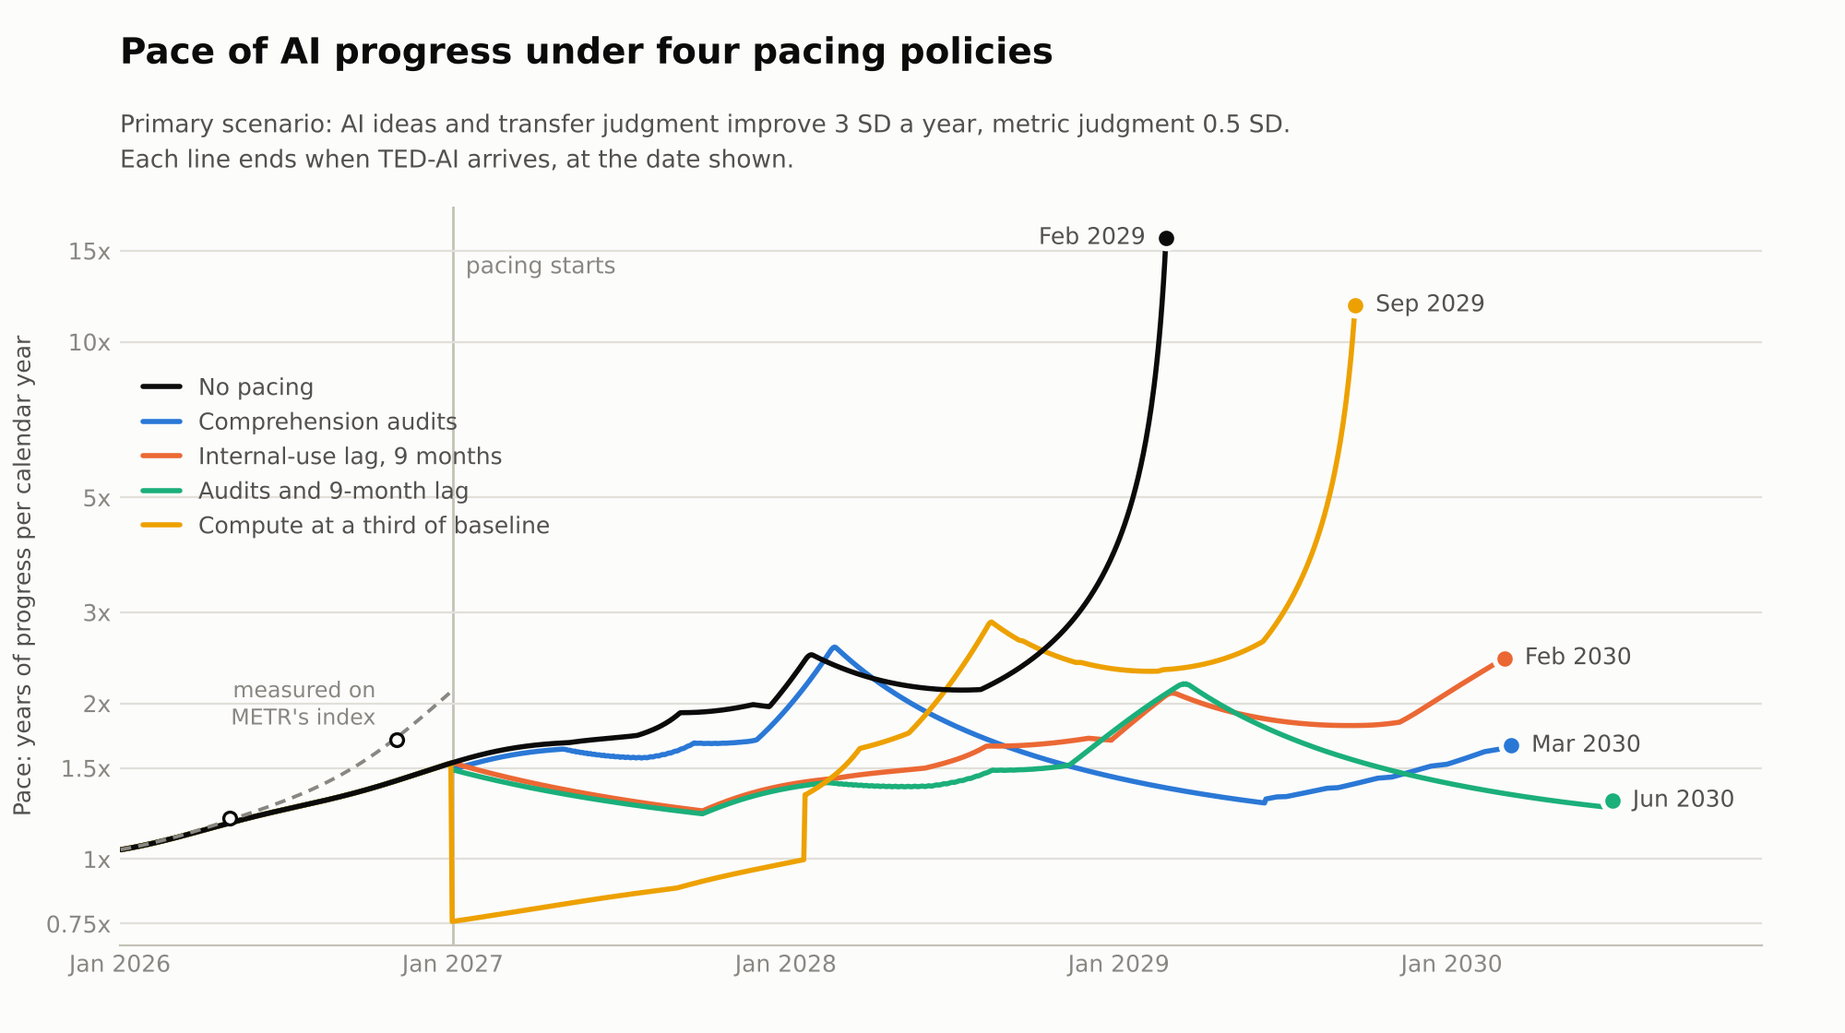
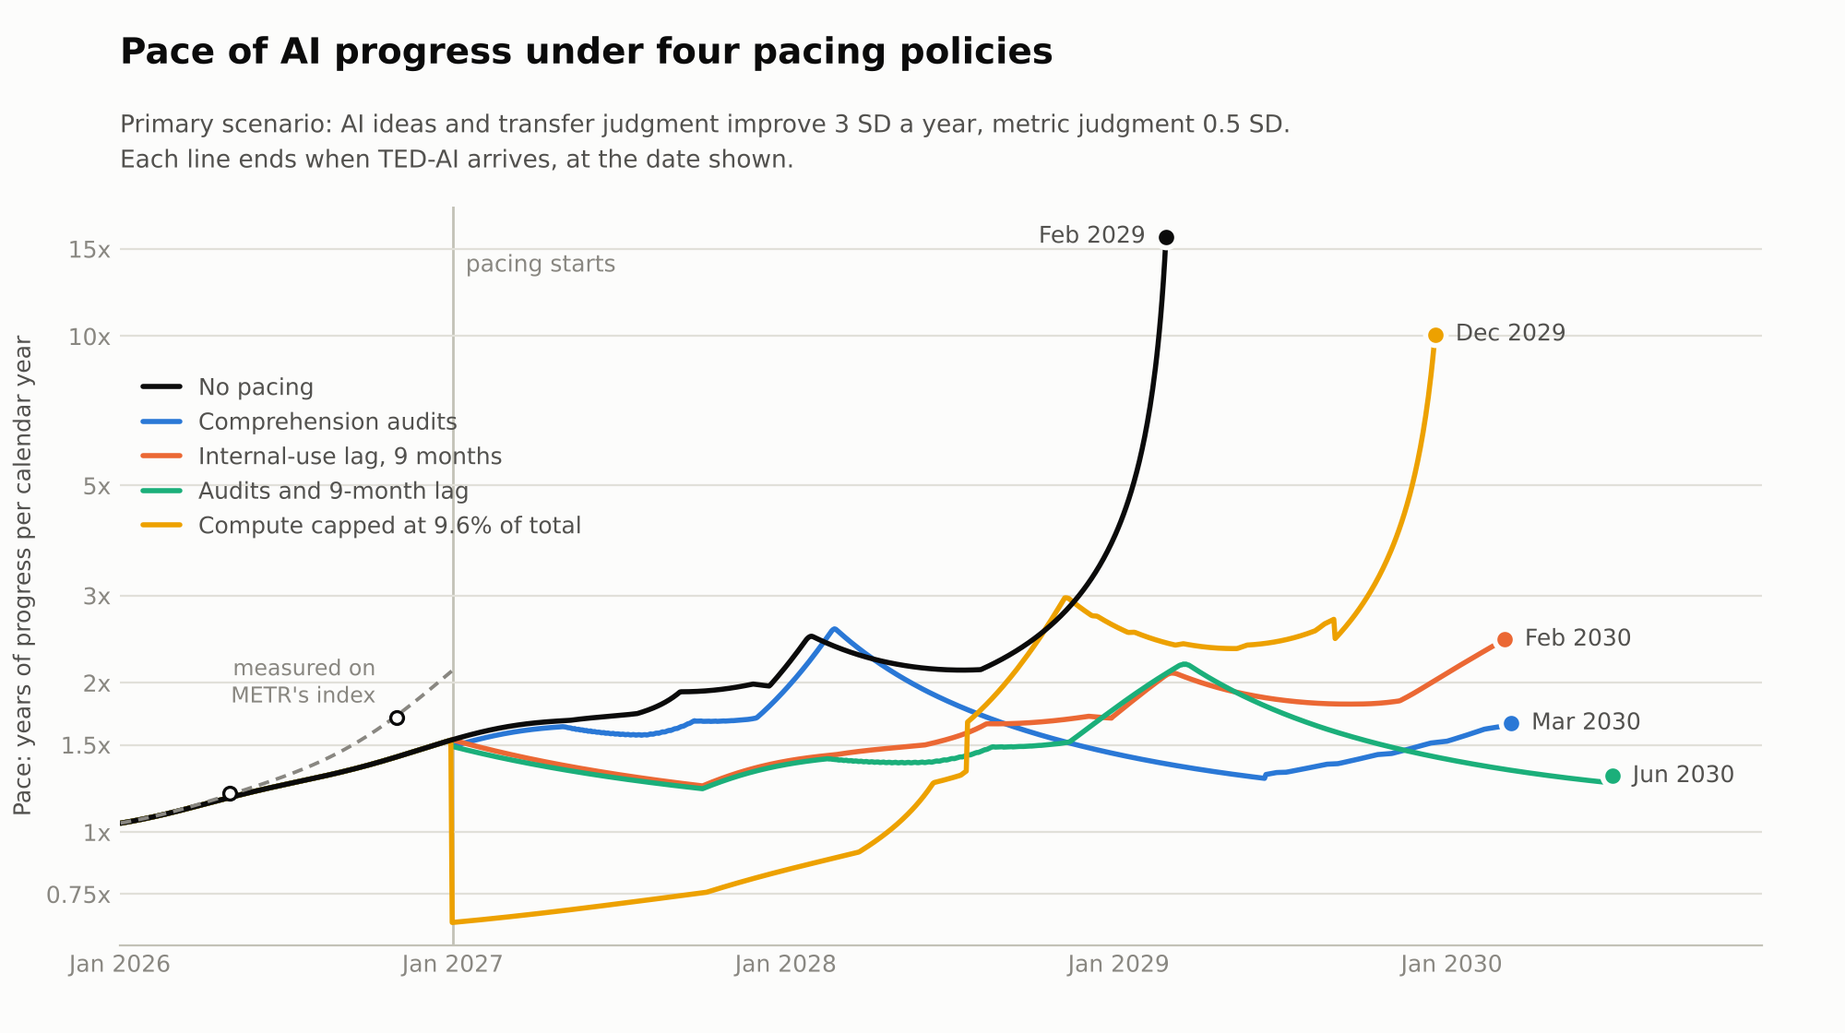
Cap the chain model's research compute at 9.6% of all compute
The compute policy held research to a third of its schedule. It now uses
the second tightest of the three examples in the AI Futures Project's
"How to Pace the US Frontier": capabilities compute at 9.6% of a company's
compute under a 90% floor for external inference, against 48% today, so a
fifth of the schedule. The cap delays TED-AI by 7 to 12 months across the
scenarios, where a third delayed it by 5 to 8. Directed by the PI (spec D22).

Claude-Session: https://claude.ai/code/session_01FEzx7rBG83QTfvYZehGYHo

diff --git a/pacing-takeoff-model/chain/chain_model.py b/pacing-takeoff-model/chain/chain_model.py
@@ -75,6 +75,12 @@ PACE_MAY, PACE_REF = 1.2, 1.7
 # organizations in late August 2026, from its report "How employment is changing at Anthropic"
 # (Figure 2). The pace was measured at the same company.
 T_LABOR, LABOR_REF = 2026.65, 19.0
+# The compute limit. The AI Futures Project's "How to Pace the US Frontier" (August 2026) puts
+# capabilities compute at 48% of a company's compute today and at 9.6% under a floor of 90% for
+# external inference, the second tightest of its three examples. The model holds research
+# compute to the same fraction of its schedule.
+COMPUTE_TODAY, COMPUTE_CAP = 0.48, 0.096
+COMPUTE_LIMIT = "R&D compute capped at 9.6% of all compute"
 # The two milestone levels are the AI Futures Project's, in SD of researcher judgment. In its
 # public code (github.com/AI-Futures-Project, `progress_model/config.py` and `_impl.py`) both
 # are levels of AI research taste.
@@ -157,7 +163,7 @@ POLICIES = (
     Policy("Comprehension audits", audits=True),
     Policy("Internal-use lag, 3 months", lag=0.25),
     Policy("Internal-use lag, 9 months", lag=0.75),
-    Policy("R&D compute at a third of baseline", compute_share=1 / 3),
+    Policy(COMPUTE_LIMIT, compute_share=COMPUTE_CAP / COMPUTE_TODAY),
     Policy("Comprehension audits + 9-month lag", audits=True, lag=0.75),
 )
 
@@ -695,11 +701,11 @@ def pacing_table(p: Params) -> list[str]:
         "Comprehension audits",
         "Internal-use lag, 9 months",
         "Comprehension audits + 9-month lag",
-        "R&D compute at a third of baseline",
+        COMPUTE_LIMIT,
     )
     out = [
         "| AI judgment gained per year | TED-AI, no pacing | Comprehension audits | "
-        "9-month lag | Audits and 9-month lag | Compute at a third of baseline |",
+        "9-month lag | Audits and 9-month lag | Compute capped at 9.6% |",
         "|---|---|---|---|---|---|",
     ]
     for label, rates in CASES:

diff --git a/pacing-takeoff-model/chain/figure.py b/pacing-takeoff-model/chain/figure.py
@@ -16,6 +16,7 @@ import matplotlib.pyplot as plt
 import numpy as np
 from chain_model import (
     CASES,
+    COMPUTE_LIMIT,
     MONTHS,
     PACE_MAY,
     PACE_REF,
@@ -38,7 +39,7 @@ SERIES = (
     ("Comprehension audits", "Comprehension audits", "#2a78d6"),
     ("Internal-use lag, 9 months", "Internal-use lag, 9 months", "#eb6834"),
     ("Comprehension audits + 9-month lag", "Audits and 9-month lag", "#1baf7a"),
-    ("R&D compute at a third of baseline", "Compute at a third of baseline", "#eda100"),
+    (COMPUTE_LIMIT, "Compute capped at 9.6% of total", "#eda100"),
 )
 START, PACING, TICKS = 2026.0, 2027.0, (1.0, 1.5, 2.0, 3.0, 5.0, 10.0, 15.0)
 OUT = Path(__file__).parent / "results" / "pace.png"

diff --git a/spec.md b/spec.md
@@ -124,7 +124,7 @@ Decided 2026-11-12 (PI, in session):
 - **D19 The labs' own usage data enter the pacing model.** Three choices. The rates on fuzzy tasks stay at +1 and +0.5 SD a year: Anthropic's TASTE benchmark has frontier models at chance on judging safety research proposals, which the PI reads as a level below the point of signal and consistent with improvement, so it is recorded as a check on the level and a test to watch and does not change a rate. The share of work that needs a person however short the task starts at 14%, OpenAI's figure for tasks under 15 minutes, and falls as AI judgment on fuzzy tasks rises. The PI holds that there is no fixed ceiling on unsupervised work. The model does not anchor on Google DeepMind's delegation data, because its models were behind the frontier for most of the period they cover; a supervision schedule fitted to its fully delegated pull requests is kept as a sensitivity only. On 2026-11-13 the PI had Anthropic's session success rates added as a third developer's figure for that share, with sensitivity runs on its starting level, its supervision time, how it falls and the audit hours (`pacing-takeoff-model/residue_sensitivity.py`). The same day the PI set the central supervision of that work to 0.5% of its time, from the PI's estimate of half an hour of a person's day for each running session, with a session doing 8 to 12 person-days of work in a day. No developer reports that figure. Three benchmarks scored against human judgment (a rerun of TASTE, RedwoodBench and LMCA) were read from chart images the PI supplied; their pages were not fetched and are not source records. The five reports behind this (Google DeepMind's Gemini 4 Argon safety report, the TASTE page, Ramez Naam's essay, and Anthropic's "When AI builds itself" and "How employment is changing at Anthropic") are not yet source records here.
 - **D20 The pacing model's two task classes are named supervisable and HTS fuzzy.** Decided by the PI on 2026-11-13. The slow class is the hard-to-supervise fuzzy tasks of Bowkis et al., HTS fuzzy for short. The fast class is everything else and is called supervisable, because it is defined by people being able to judge the work. It holds that paper's crisp tasks and the fuzzy tasks people judge reliably. The earlier labels, crisp and fuzzy, made benchmarks scored against human judgment look like evidence on the wrong class. Keys, parameter names and result file names in the model's code use the same two names. They kept the earlier labels for one day and were renamed on the PI's instruction before the next rerun; the one saved file that held an old key, a results meta file, was migrated.
 - **D21 Supervisable work has a weight of 80% in the pacing model.** Decided by the PI on 2026-11-13. It was 65%, the importance-based anchor. No source measures the weight. The three anchors give 60% to 84% and separate well-defined work from the rest, which is wider than the HTS fuzzy class, so they are a floor. The PI moved the central value after three arguments that point above them: Bowkis et al. say fuzzy tasks are more prevalent in alignment research than in capabilities research, benchmarks scored against human judgment rise with general capability, and Dwarkesh Patel's essay of 2026-11-13 argues that AI research has verifiable proxies for its main kinds of work. The model is also run at 50%, 65% and 90%. Patel's essay is not yet a source record here.
-- **D22 A standalone chain model sits beside the pacing models.** Directed by the PI on 2026-11-15. It lives in `pacing-takeoff-model/chain/`, a self-contained folder that can be shared on its own. It replaces the weight of supervisable work (D21) and the substitution between the classes with a mechanism: experiments at scale limited by compute, small experiments behind each one, and two links, transfer and validity, between a small-scale result and real value. People supply both links for the experiments they have time to judge and the AI supplies its own for the rest. The values of the links, the limit on what people can vouch for and the share of audit time that counts as judging are judgments with no measurement behind them. PI decisions: validity of work left to the AI is 0.05 against people's 0.8, lowered from the first draft's 0.3 (2026-11-15). The AI's transfer and metric judgment improve with progress, as its ideas do; a reading in which they improve with calendar time was built and removed, and no limit is put on how fast they improve (2026-11-16). There is no ceiling on ideas (2026-11-15). A compute limit holds a lab to a share of baseline, a third in the tables, and covers experiments at scale, small experiments, AI labor and training (2026-11-16). How fast research gets harder is an input, stated per year of software progress, and the milestone levels are computed from the AI Futures Project's percentile and gap parameters (2026-11-16). AI labor is fitted to Anthropic's 19 agent hours per human work-hour in its research organizations in late August 2026, in place of OpenAI's trend, and 22% of researcher time goes to managing agents, from Anthropic's share of model researchers' agent sessions (2026-11-16). AI labor per researcher has no cap; the PI expects the ratio to keep climbing as AI takes over research. A lab runs the amount of its AI labor that gives the most research, with or without audits. The primary scenario is ideas and transfer judgment at +3 SD a year and metric judgment at +0.5 SD (2026-11-16). Under comprehension audits a lab may deploy a gain only as far as its people can vouch for it, which is up to what its best researcher could have proposed; an audit that takes hours only is kept as a sensitivity (2026-11-16). There is one audit standard; light and strict audits are dropped as not materially different (2026-11-16). The two measured paces, 1.2 times in May 2026 and 1.7 times in November 2026, are fitted as the pace on the lab's metrics and not as real progress, because METR's index is built from benchmarks and the model holds that metrics run ahead of real value (2026-11-16). The model does not replace Model A, Model B or the simple model, and the briefing does not yet report its results.
+- **D22 A standalone chain model sits beside the pacing models.** Directed by the PI on 2026-11-15. It lives in `pacing-takeoff-model/chain/`, a self-contained folder that can be shared on its own. It replaces the weight of supervisable work (D21) and the substitution between the classes with a mechanism: experiments at scale limited by compute, small experiments behind each one, and two links, transfer and validity, between a small-scale result and real value. People supply both links for the experiments they have time to judge and the AI supplies its own for the rest. The values of the links, the limit on what people can vouch for and the share of audit time that counts as judging are judgments with no measurement behind them. PI decisions: validity of work left to the AI is 0.05 against people's 0.8, lowered from the first draft's 0.3 (2026-11-15). The AI's transfer and metric judgment improve with progress, as its ideas do; a reading in which they improve with calendar time was built and removed, and no limit is put on how fast they improve (2026-11-16). There is no ceiling on ideas (2026-11-15). A compute limit holds a lab to a share of baseline and covers experiments at scale, small experiments, AI labor and training (2026-11-16). The share in the tables is a cap of 9.6% of all compute against 48% today, a fifth of baseline, from the second tightest example in the AI Futures Project's "How to Pace the US Frontier"; it replaced a third of baseline (2026-11-16). How fast research gets harder is an input, stated per year of software progress, and the milestone levels are computed from the AI Futures Project's percentile and gap parameters (2026-11-16). AI labor is fitted to Anthropic's 19 agent hours per human work-hour in its research organizations in late August 2026, in place of OpenAI's trend, and 22% of researcher time goes to managing agents, from Anthropic's share of model researchers' agent sessions (2026-11-16). AI labor per researcher has no cap; the PI expects the ratio to keep climbing as AI takes over research. A lab runs the amount of its AI labor that gives the most research, with or without audits. The primary scenario is ideas and transfer judgment at +3 SD a year and metric judgment at +0.5 SD (2026-11-16). Under comprehension audits a lab may deploy a gain only as far as its people can vouch for it, which is up to what its best researcher could have proposed; an audit that takes hours only is kept as a sensitivity (2026-11-16). There is one audit standard; light and strict audits are dropped as not materially different (2026-11-16). The two measured paces, 1.2 times in May 2026 and 1.7 times in November 2026, are fitted as the pace on the lab's metrics and not as real progress, because METR's index is built from benchmarks and the model holds that metrics run ahead of real value (2026-11-16). The model does not replace Model A, Model B or the simple model, and the briefing does not yet report its results.
 
 Taken as defaults by the build, for the PI to confirm or change:
 

diff --git a/pacing-takeoff-model/chain/results/tables.md b/pacing-takeoff-model/chain/results/tables.md
@@ -19,14 +19,14 @@ SAR, the superhuman AI researcher, and TED-AI are the AI Futures Project's miles
 
 ## Delay to TED-AI
 
-| AI judgment gained per year | TED-AI, no pacing | Comprehension audits | 9-month lag | Audits and 9-month lag | Compute at a third of baseline |
+| AI judgment gained per year | TED-AI, no pacing | Comprehension audits | 9-month lag | Audits and 9-month lag | Compute capped at 9.6% |
 |---|---|---|---|---|---|
-| Ideas, transfer and metrics all +3 SD a year | Jun 2027 | +0 mo | +11 mo | +11 mo | +5 mo |
-| Ideas and transfer +3, metrics +1 | Feb 2028 | +3 mo | +10 mo | +11 mo | +8 mo |
-| Ideas and transfer +3, metrics +0.5 | Feb 2029 | +12 mo | +12 mo | +16 mo | +7 mo |
-| Ideas +3, transfer and metrics +1 | Jun 2028 | +4 mo | +10 mo | +11 mo | +8 mo |
-| Ideas +3, transfer +1, metrics +0.5 | Jun 2029 | +12 mo | +12 mo | +17 mo | +8 mo |
-| Ideas +3, transfer and metrics +0.5 | Feb 2030 | +13 mo | +11 mo | +17 mo | +8 mo |
+| Ideas, transfer and metrics all +3 SD a year | Jun 2027 | +0 mo | +11 mo | +11 mo | +7 mo |
+| Ideas and transfer +3, metrics +1 | Feb 2028 | +3 mo | +10 mo | +11 mo | +11 mo |
+| Ideas and transfer +3, metrics +0.5 | Feb 2029 | +12 mo | +12 mo | +16 mo | +10 mo |
+| Ideas +3, transfer and metrics +1 | Jun 2028 | +4 mo | +10 mo | +11 mo | +12 mo |
+| Ideas +3, transfer +1, metrics +0.5 | Jun 2029 | +12 mo | +12 mo | +17 mo | +11 mo |
+| Ideas +3, transfer and metrics +0.5 | Feb 2030 | +13 mo | +11 mo | +17 mo | +12 mo |
 
 ## The path with no pacing: ideas and transfer +3, metrics +0.5
 
@@ -101,7 +101,7 @@ Above some difficulty the model cannot reach the pace measured in November 2026.
 | Comprehension audits | Jun 2027 | +0 mo | Jun 2027 | +0 mo |
 | Internal-use lag, 3 months | Sep 2027 | +3 mo | Nov 2027 | +5 mo |
 | Internal-use lag, 9 months | Nov 2027 | +6 mo | May 2028 | +11 mo |
-| R&D compute at a third of baseline | Oct 2027 | +5 mo | Nov 2027 | +5 mo |
+| R&D compute capped at 9.6% of all compute | Dec 2027 | +7 mo | Jan 2028 | +7 mo |
 | Comprehension audits + 9-month lag | Nov 2027 | +6 mo | May 2028 | +11 mo |
 
 ### Ideas and transfer +3, metrics +1
@@ -112,7 +112,7 @@ Above some difficulty the model cannot reach the pace measured in November 2026.
 | Comprehension audits | Apr 2028 | +2 mo | May 2028 | +3 mo |
 | Internal-use lag, 3 months | Jun 2028 | +4 mo | Jul 2028 | +5 mo |
 | Internal-use lag, 9 months | Oct 2028 | +8 mo | Dec 2028 | +10 mo |
-| R&D compute at a third of baseline | Sep 2028 | +7 mo | Sep 2028 | +8 mo |
+| R&D compute capped at 9.6% of all compute | Dec 2028 | +11 mo | Jan 2029 | +11 mo |
 | Comprehension audits + 9-month lag | Oct 2028 | +9 mo | Jan 2029 | +11 mo |
 
 ### Ideas and transfer +3, metrics +0.5
@@ -123,7 +123,7 @@ Above some difficulty the model cannot reach the pace measured in November 2026.
 | Comprehension audits | Jul 2029 | +7 mo | Mar 2030 | +12 mo |
 | Internal-use lag, 3 months | Apr 2029 | +4 mo | Aug 2029 | +6 mo |
 | Internal-use lag, 9 months | Sep 2029 | +8 mo | Feb 2030 | +12 mo |
-| R&D compute at a third of baseline | Jul 2029 | +6 mo | Sep 2029 | +7 mo |
+| R&D compute capped at 9.6% of all compute | Oct 2029 | +9 mo | Dec 2029 | +10 mo |
 | Comprehension audits + 9-month lag | Oct 2029 | +10 mo | Jun 2030 | +16 mo |
 
 ### Ideas +3, transfer and metrics +1
@@ -134,7 +134,7 @@ Above some difficulty the model cannot reach the pace measured in November 2026.
 | Comprehension audits | Sep 2028 | +3 mo | Oct 2028 | +4 mo |
 | Internal-use lag, 3 months | Oct 2028 | +4 mo | Nov 2028 | +5 mo |
 | Internal-use lag, 9 months | Jan 2029 | +7 mo | Apr 2029 | +10 mo |
-| R&D compute at a third of baseline | Feb 2029 | +8 mo | Feb 2029 | +8 mo |
+| R&D compute capped at 9.6% of all compute | Jun 2029 | +12 mo | Jun 2029 | +12 mo |
 | Comprehension audits + 9-month lag | Feb 2029 | +8 mo | May 2029 | +11 mo |
 
 ### Ideas +3, transfer +1, metrics +0.5
@@ -145,7 +145,7 @@ Above some difficulty the model cannot reach the pace measured in November 2026.
 | Comprehension audits | Nov 2029 | +7 mo | May 2030 | +12 mo |
 | Internal-use lag, 3 months | Aug 2029 | +4 mo | Nov 2029 | +6 mo |
 | Internal-use lag, 9 months | Jan 2030 | +8 mo | Jun 2030 | +12 mo |
-| R&D compute at a third of baseline | Dec 2029 | +8 mo | Feb 2030 | +8 mo |
+| R&D compute capped at 9.6% of all compute | Apr 2030 | +11 mo | May 2030 | +11 mo |
 | Comprehension audits + 9-month lag | Mar 2030 | +11 mo | Nov 2030 | +17 mo |
 
 ### Ideas +3, transfer and metrics +0.5
@@ -156,6 +156,6 @@ Above some difficulty the model cannot reach the pace measured in November 2026.
 | Comprehension audits | Nov 2030 | +9 mo | Apr 2031 | +13 mo |
 | Internal-use lag, 3 months | May 2030 | +4 mo | Aug 2030 | +5 mo |
 | Internal-use lag, 9 months | Sep 2030 | +8 mo | Jan 2031 | +11 mo |
-| R&D compute at a third of baseline | Sep 2030 | +8 mo | Nov 2030 | +8 mo |
+| R&D compute capped at 9.6% of all compute | Jan 2031 | +11 mo | Feb 2031 | +12 mo |
 | Comprehension audits + 9-month lag | Jan 2031 | +12 mo | Aug 2031 | +17 mo |
 

diff --git a/pacing-takeoff-model/chain/README.md b/pacing-takeoff-model/chain/README.md
@@ -62,7 +62,7 @@ kept  = transfer * validity, each measured against people's
 
 - **Comprehension audits.** A lab may deploy only what its own people understand. That takes researchers' hours for every deployed change: 14% of their time today, growing with the number of changes. It also has a reach. People cannot understand a gain past what they can vouch for, so an audited lab does not deploy that part.
 - **Internal-use lag.** A lab works with the AI it had nine months ago.
-- **Compute limit.** A lab may use a third of the compute it otherwise would for experiments, for running AI labor and for training.
+- **Compute cap.** Capabilities work may use at most 9.6% of a lab's compute. That is a fifth of what it otherwise would use for experiments, for running AI labor and for training.
 
 Audits and the lag are also run together.
 
@@ -144,14 +144,14 @@ The figure is the primary scenario. Each line is the pace under one policy and e
 
 Delay to TED-AI:
 
-| AI judgment gained per year of progress | Comprehension audits | 9-month lag | Audits and 9-month lag | Compute at a third of baseline |
+| AI judgment gained per year of progress | Comprehension audits | 9-month lag | Audits and 9-month lag | Compute capped at 9.6% |
 |---|---|---|---|---|
-| Ideas, transfer and metrics all +3 SD | +0 mo | +11 mo | +11 mo | +5 mo |
-| Ideas and transfer +3, metrics +1 | +3 mo | +10 mo | +11 mo | +8 mo |
-| **Ideas and transfer +3, metrics +0.5 (primary)** | **+12 mo** | **+12 mo** | **+16 mo** | **+7 mo** |
-| Ideas +3, transfer and metrics +1 | +4 mo | +10 mo | +11 mo | +8 mo |
-| Ideas +3, transfer +1, metrics +0.5 | +12 mo | +12 mo | +17 mo | +8 mo |
-| Ideas +3, transfer and metrics +0.5 | +13 mo | +11 mo | +17 mo | +8 mo |
+| Ideas, transfer and metrics all +3 SD | +0 mo | +11 mo | +11 mo | +7 mo |
+| Ideas and transfer +3, metrics +1 | +3 mo | +10 mo | +11 mo | +11 mo |
+| **Ideas and transfer +3, metrics +0.5 (primary)** | **+12 mo** | **+12 mo** | **+16 mo** | **+10 mo** |
+| Ideas +3, transfer and metrics +1 | +4 mo | +10 mo | +11 mo | +12 mo |
+| Ideas +3, transfer +1, metrics +0.5 | +12 mo | +12 mo | +17 mo | +11 mo |
+| Ideas +3, transfer and metrics +0.5 | +13 mo | +11 mo | +17 mo | +12 mo |
 
 **Comprehension audits**
 
@@ -165,8 +165,9 @@ Delay to TED-AI:
 
 - **A 9-month lag delays TED-AI by 10 to 12 months in every scenario.** It sets back the AI the lab may use, and so the judgment that drives the loop.
 - **Audits and the lag together delay it by 11 to 17 months.** That is less than the two delays added up. In the primary scenario the two together give 16 months, against 12 and 12 apart, and the pace ends at 1.3 times.
-- **A compute limit delays it by 5 to 8 months, once.** Training waits about a year for its allowance to catch up with what it has already used, and research runs on a third of the compute from then on. A cut in research buys a fixed delay because difficulty is exponential: a lab with half the research ends up one year of software progress behind and stays there.
-- **A third is a tight limit.** In the AI Futures Project's input series, experiments, training and running AI researchers take 62% of the leading company's compute in 2026. A third of that is 21%, which matches a rule that about 79% of compute go to other uses. A rule of 60% would leave research about two thirds of baseline and delay TED-AI by 2 to 3 months. That run is not in the results file.
+- **The compute cap delays it by 7 to 12 months, once.** Training waits a year and a half for its allowance to catch up with what it has already used, and research runs on a fifth of the compute from then on. In the primary scenario the pace drops to 0.7 times when the cap starts and is back above 1 in April 2028. A cut in research buys a fixed delay because difficulty is exponential: a lab with half the research ends up one year of software progress behind and stays there.
+- **The cap is the AI Futures Project's.** A chart in its ["How to Pace the US Frontier"](https://blog.aifutures.org/p/how-to-pace-the-us-frontier) (August 2026) gives three examples of compute rules. It estimates capabilities compute at 48% of a company's compute today. Under a floor of 90% for external inference it is 9.6%, the second tightest of the three, and the model holds research compute to the same fraction of its schedule, 9.6/48. The figures were read from the chart.
+- **Other rules from the same chart.** Its tightest example, 5% under floors of 70% for inference and 25% for safety, delays TED-AI by 13 months in the primary scenario. Its loosest, 12.5% under a safety floor of 75%, delays it by 8. A cut to a third of baseline delays it by 7. If the base is the 62% that the project's input series gives for experiments, training and running AI researchers in 2026, a cap of 9.6% delays it by 11. Those runs are not in the results file.
 
 ## How fast research gets harder
 
